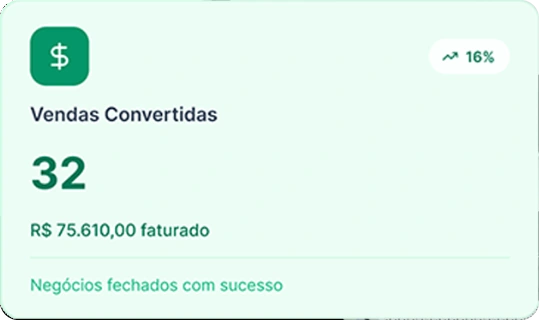
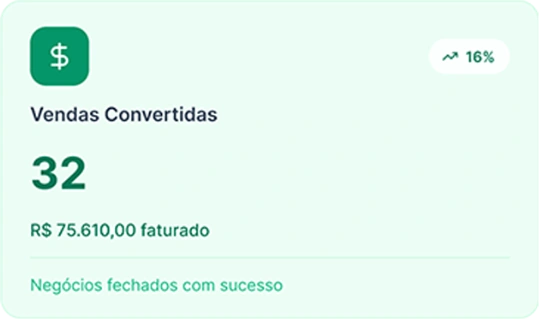
Usa as camadas separadas do Figma no hero e remove o traço das pílulas
O notebook e os cards agora vêm de duas camadas próprias no arquivo
(72:3 "comp 1" e 72:2 "cards 1"), exportadas na mesma caixa de
4096x3175. Isso encerra a extração por diferença de imagens, que vinha
carregando pedaço do notebook junto com os cards e exigindo máscara.

- Com os cards sobre transparência, separá-los é só pegar os componentes
  conectados do alpha: saem os cinco limpos, com a sombra, sem máscara
- Some o drop-shadow que eu aplicava por CSS, já que a sombra volta a
  vir na própria imagem
- Posições recalculadas a partir da mesma origem das duas camadas

Movimento dos cards
- Durações bem mais espalhadas, de 4,8s a 8,2s, com deriva lateral e
  inclinação próprias
- A curva ganhou uma terceira parada: o card descreve um arco em vez de
  subir e descer em linha reta, o que lê como flutuar

Remove o traço de ligação entre as pílulas do agente de IA, que ficava
por cima da pílula quando ela crescia no brilho. A sequência fica só no
brilho percorrendo as três.

diff --git a/index.html b/index.html
@@ -71,25 +71,25 @@
                  alt="Notebook exibindo o dashboard da HelloGrowth, com cards de oportunidades geradas, vendas convertidas e NPS registrados.">
           </picture>
 
-          <span class="hero-card" style="--x:67.03%;--y:2.37%;--w:17.51%">
+          <span class="hero-card" style="--x:67.57%;--y:2.37%;--w:17.0%">
             <img src="assets/hero-card-oportunidades.webp" alt="" aria-hidden="true"
-                 style="--dur:6.4s;--delay:0s;--amp:19%;--rot:0.6deg">
+                 style="--dur:8.2s;--delay:0s;--amp:16%;--ampx:1.4%;--rot:0.5deg">
           </span>
-          <span class="hero-card" style="--x:72.05%;--y:26.52%;--w:10.79%">
+          <span class="hero-card" style="--x:72.05%;--y:26.57%;--w:10.79%">
             <img src="assets/hero-card-promotores.webp" alt="" aria-hidden="true"
-                 style="--dur:5.2s;--delay:-1.8s;--amp:25%;--rot:-1deg">
+                 style="--dur:4.8s;--delay:-2.1s;--amp:26%;--ampx:-2.6%;--rot:-1.2deg">
           </span>
-          <span class="hero-card" style="--x:27.82%;--y:34.0%;--w:10.13%">
+          <span class="hero-card" style="--x:27.82%;--y:34.0%;--w:10.16%">
             <img src="assets/hero-card-leads.webp" alt="" aria-hidden="true"
-                 style="--dur:7.1s;--delay:-3.4s;--amp:27%;--rot:0.9deg">
+                 style="--dur:6.9s;--delay:-4.3s;--amp:24%;--ampx:2.2%;--rot:1deg">
           </span>
-          <span class="hero-card" style="--x:81.99%;--y:45.33%;--w:12.68%">
+          <span class="hero-card" style="--x:82.02%;--y:45.33%;--w:12.65%">
             <img src="assets/hero-card-nps.webp" alt="" aria-hidden="true"
-                 style="--dur:5.8s;--delay:-0.9s;--amp:25%;--rot:-0.8deg">
+                 style="--dur:5.6s;--delay:-1.2s;--amp:22%;--ampx:-1.8%;--rot:-0.7deg">
           </span>
           <span class="hero-card" style="--x:29.5%;--y:48.95%;--w:17.0%">
             <img src="assets/hero-card-vendas.webp" alt="" aria-hidden="true"
-                 style="--dur:6.9s;--delay:-2.6s;--amp:17%;--rot:0.55deg">
+                 style="--dur:7.5s;--delay:-3.1s;--amp:15%;--ampx:1.2%;--rot:0.6deg">
           </span>
         </div>
       </div>

diff --git a/css/styles.css b/css/styles.css
@@ -560,19 +560,9 @@ a { color: inherit; }
 .pill.is-in:nth-child(2) { animation-delay: 2.3s; }
 .pill.is-in:nth-child(3) { animation-delay: 3.2s; }
 
-/* traço de ligação só quando as três pílulas cabem na mesma linha —
-   com quebra, sobraria um traço solto à esquerda */
-@media (min-width: 560px) {
-  .pill + .pill::before {
-    content: "";
-    position: absolute;
-    left: -18px;
-    top: 50%;
-    width: 18px;
-    height: 2px;
-    background: #daf58e;
-  }
-}
+/* O traço de ligação entre as pílulas saiu do design: ele ficava por cima da
+   pílula quando ela crescia no brilho. A sequência agora é contada só pelo
+   brilho percorrendo as três. */
 
 /* mock do WhatsApp */
 .phone {
@@ -1075,9 +1065,14 @@ a { color: inherit; }
    duração, atraso e amplitude próprios — é a diferença entre eles que dá a
    sensação de vento, e não o movimento em si. A amplitude é percentual, então
    acompanha a escala da imagem em telas menores. */
+/* três paradas em vez de duas: o card descreve um arco em vez de subir e
+   descer em linha reta, o que lê muito mais como flutuar */
 @keyframes hg-drift {
-  0%, 100% { transform: translateY(0) rotate(0deg); }
-  50%      { transform: translateY(calc(-1 * var(--amp, 9%))) rotate(var(--rot, 0deg)); }
+  0%, 100% { transform: translate(0, 0) rotate(0deg); }
+  35%      { transform: translate(var(--ampx, 0%), calc(-1 * var(--amp, 16%)))
+                        rotate(var(--rot, 0deg)); }
+  70%      { transform: translate(calc(-1 * var(--ampx, 0%)), calc(-0.4 * var(--amp, 16%)))
+                        rotate(calc(-0.6 * var(--rot, 0deg))); }
 }
 
 .hero-stage { position: relative; }
@@ -1089,11 +1084,9 @@ a { color: inherit; }
   top: var(--y);
   width: var(--w);
 }
+/* cada card vem recortado da própria camada do Figma, já com a sombra */
 .hero-card img {
   width: 100%;
-  /* os recortes trazem só o corpo do card; a sombra que estava no bitmap saiu
-     junto com o fundo e volta aqui, acompanhando o card enquanto ele flutua */
-  filter: drop-shadow(0 9px 20px rgba(5, 34, 29, 0.17));
   animation: hg-drift var(--dur, 6s) ease-in-out var(--delay, 0s) infinite;
 }
 

diff --git a/README.md b/README.md
@@ -84,10 +84,11 @@ foco visível e `prefers-reduced-motion` respeitado.
 **Quebras de linha por `<span>` em bloco**, não `<br>` — mantém as quebras do design
 sem colar as palavras na leitura por tecnologia assistiva.
 
-**Imagem do hero.** O notebook vem do bitmap sem os cards que o PDF original trazia
-como camada separada; os cinco cards são recortes do composto do Figma. As duas fontes
-têm o mesmo enquadramento (4096 × 3175, área útil idêntica), então as posições em
-porcentagem batem sem ajuste. O notebook é servido por `srcset` em duas larguras —
+**Imagem do hero.** Vem de duas camadas separadas no Figma, na mesma caixa
+(`72:3` "comp 1" = notebook, `72:2` "cards 1" = os cinco cards), ambas exportadas em
+4096 × 3175. Como os cards estão sobre transparência, separá-los é só pegar os
+componentes conectados do canal alpha — sai um por card, com a sombra, sem máscara nem
+recorte manual. As posições em porcentagem saem da mesma origem, então batem sem ajuste. O notebook é servido por `srcset` em duas larguras —
 1200 px (84 KB) para telas 1x e 2400 px (282 KB) para retina. O bloco recebe
 `pointer-events: none` porque a área transparente passa por cima dos CTAs e roubaria
 o clique.
@@ -123,7 +124,8 @@ que dá a sensação de vento. A amplitude é percentual, então acompanha a esc
 imagem em telas menores.
 
 **Pílulas do agente de IA.** Percurso luminoso em loop: cada pílula acende e cresce um
-pouco, na ordem, e recomeça. As três compartilham o mesmo ciclo de 4s e se diferenciam só
+pouco, na ordem, e recomeça. O traço de ligação entre elas saiu do design — ficava por
+cima da pílula quando ela crescia. As três compartilham o mesmo ciclo de 4s e se diferenciam só
 pelo `animation-delay`, o que mantém a ordem sempre correta. O atraso inicial de 1,4s
 existe porque brilho e entrada disputam a mesma propriedade `transform` — sem ele o
 brilho atropelaria a animação de entrada.
